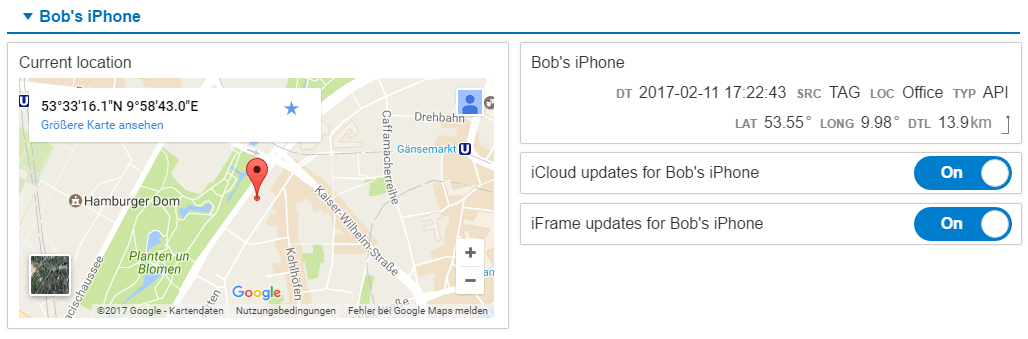
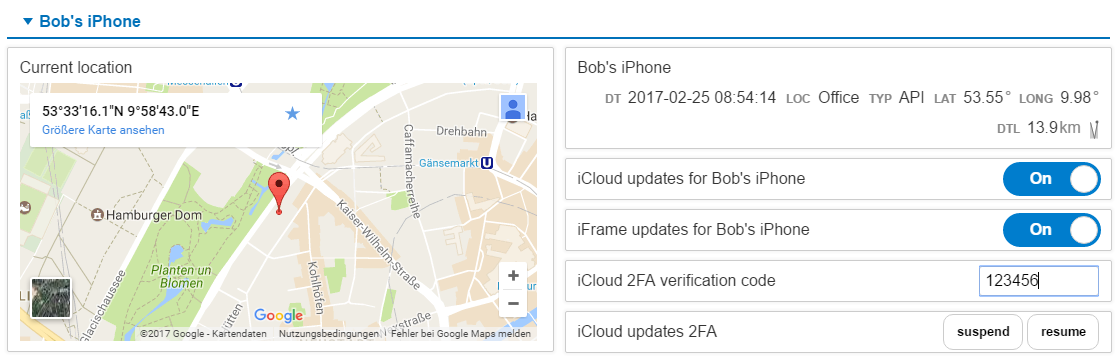
cleanup and documentation for Rev. 0.8.5

Changed region(s): [[0.0, 0.0295, 0.9961, 1.0], [0.5292, 0.236, 0.9961, 0.295], [0.8405, 0.9145, 0.9961, 0.944]]

diff --git a/README.md b/README.md
@@ -45,8 +45,10 @@ generate an API key.
     or [pimatic-cron](https://pimatic.org/plugins/pimatic-cron/) to trigger the suspend by executing (inspired by a request
     at the [pimatic forum](https://forum.pimatic.org/topic/2719/pimatic-phone-icloud-error/37)). This feature could not be used if you have
     two factor authentication activated. See 2FA remarks (see below).
-    As of Rev. 0.8.0 you can easily define a DummySwitch to enable/disable
-    iCloud updates through the mobile frontend
+    As of Rev. 0.8.0 you can define a DummySwitch to enable/disable
+    iCloud updates through the mobile frontend and since Rev. 0.8.5 you can use
+    the new actions "suspend <phone device>" and "resume <phone device>" to
+    control updates through the iCloud interface.
 
 <img src="https://raw.githubusercontent.com/bstrebel/pimatic-phone/master/screenshots/switch.png" width="480">
 
@@ -77,8 +79,15 @@ generate an API key.
     Due to limitations of the iCloud API logout and login calls have to be
     performed and Apple notification mails are triggered by the enableUpdates
     call. You have to provide a valid verification code or '000000' as in
-    https://.../enableUpdates?code=000000
+    https://.../enableUpdates?code=000000.
 
+    As of Rev. 0.8.5 you can use the new actions "suspend" and "resume"
+    to control the iCloud updates. The resume action takes an additional
+    argument "with <verification code>" if 2FA is enabled. Combined with
+    rules, a buttons device und a variable input device you can realize
+    a comfortable frontend to control suspend/resume with verification codes.
+
+<img src="https://raw.githubusercontent.com/bstrebel/pimatic-phone/master/screenshots/2FA.png" width="480">
 
 As of Rev. 0.4.6 an additional API call _updatePhone_ provides a simple to use
 interface for **Android** devices running the Tasker APP. Download and import the
@@ -596,6 +605,14 @@ Roadmap
 
 Changelog
 ---------
+
+v0.8.5
+
+- iOS device config changes
+    iCloudVerifyVariable to use with  VariableInputDevice
+    iCloud2FA used during startup before a iCloud connection is availabel
+
+- provide first pimatic actions "set location" and "suspend/resume"
 
 v0.8.4
 
